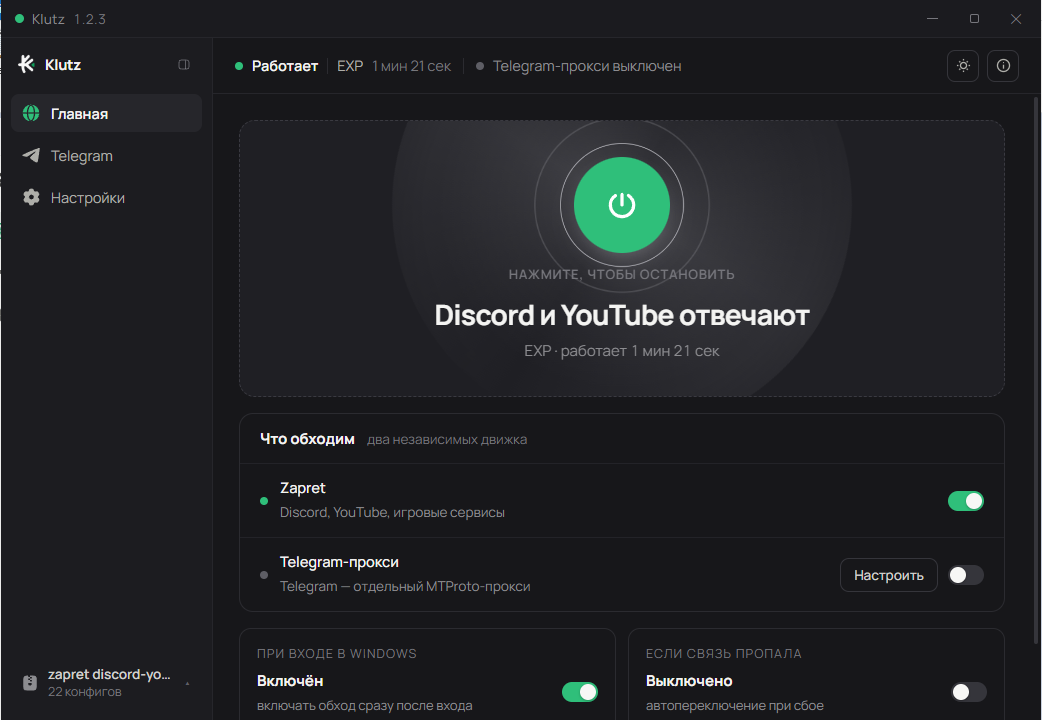
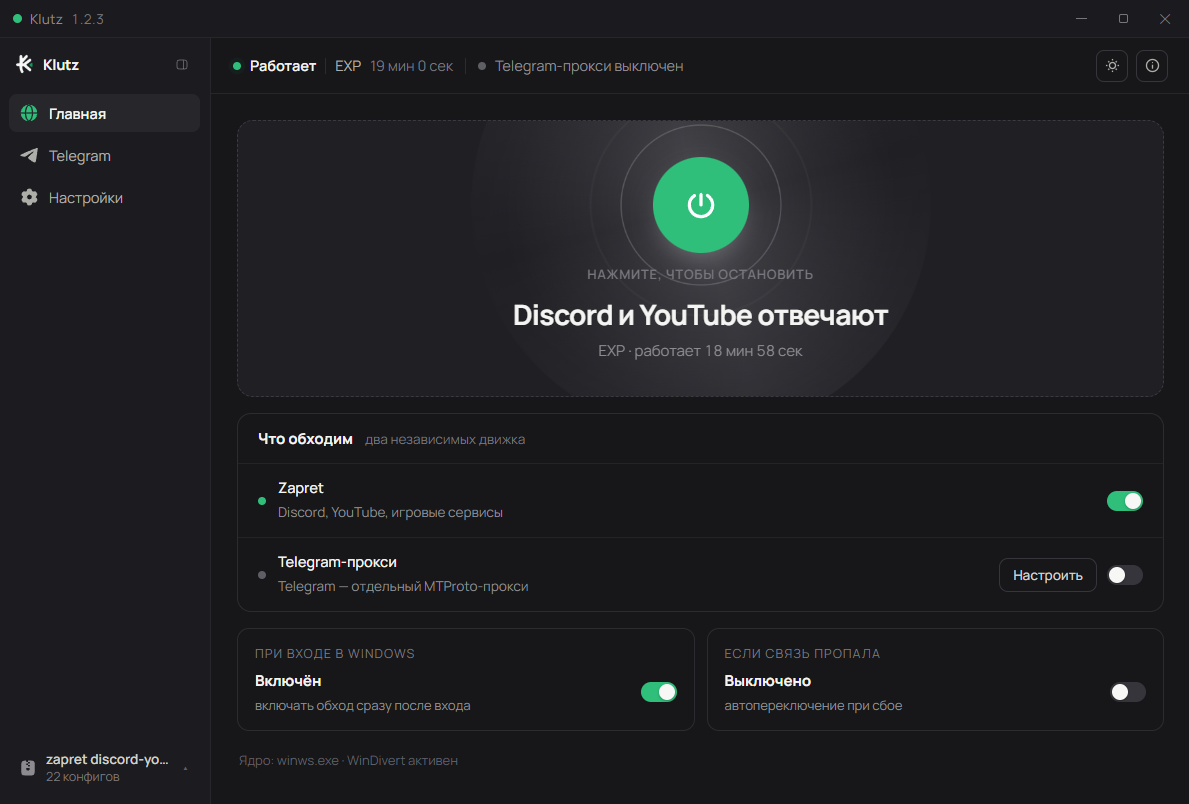
README: свежие кадры главного экрана и меню в трее
Главный экран пересняли — заменены оба варианта, светлый и тёмный.
Добавлено меню в трее: в списке возможностей про него было сказано, а
показано не было, хотя именно им пользуются каждый день.

diff --git a/README.md b/README.md
@@ -51,6 +51,11 @@
 
 <img alt="Поиск по каталогу игр и сервисов" src="docs/search.png">
 
+Каждый день окно и не нужно: в трее видно пинг по всем целям, там же
+переключается стратегия и включается Telegram-прокси.
+
+<img alt="Меню в трее: пинг по целям и управление без окна" src="docs/tray.png">
+
 ## Установка
 
 Скачайте `Klutz_X.Y.Z_x64-setup.exe` со [страницы последнего релиза](https://github.com/vbu00/zapret-klutz/releases/latest) и установите.
